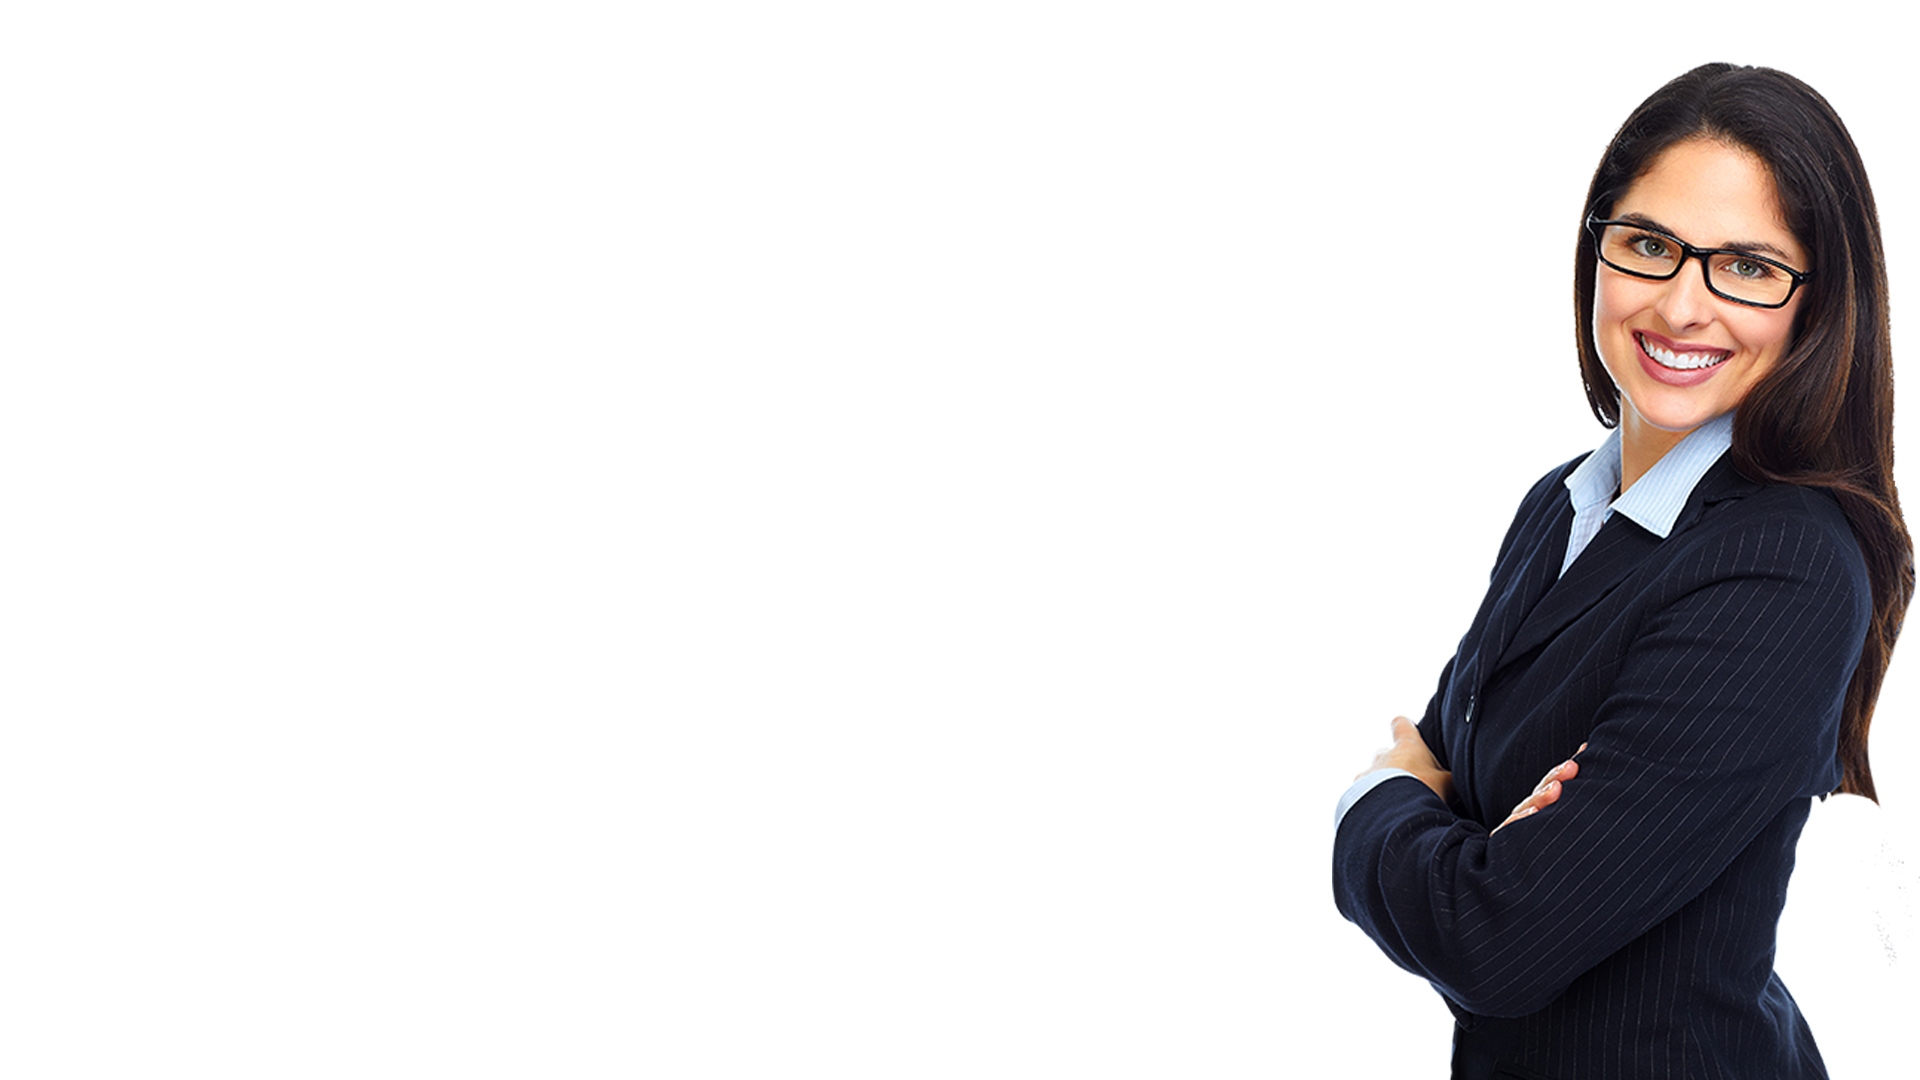
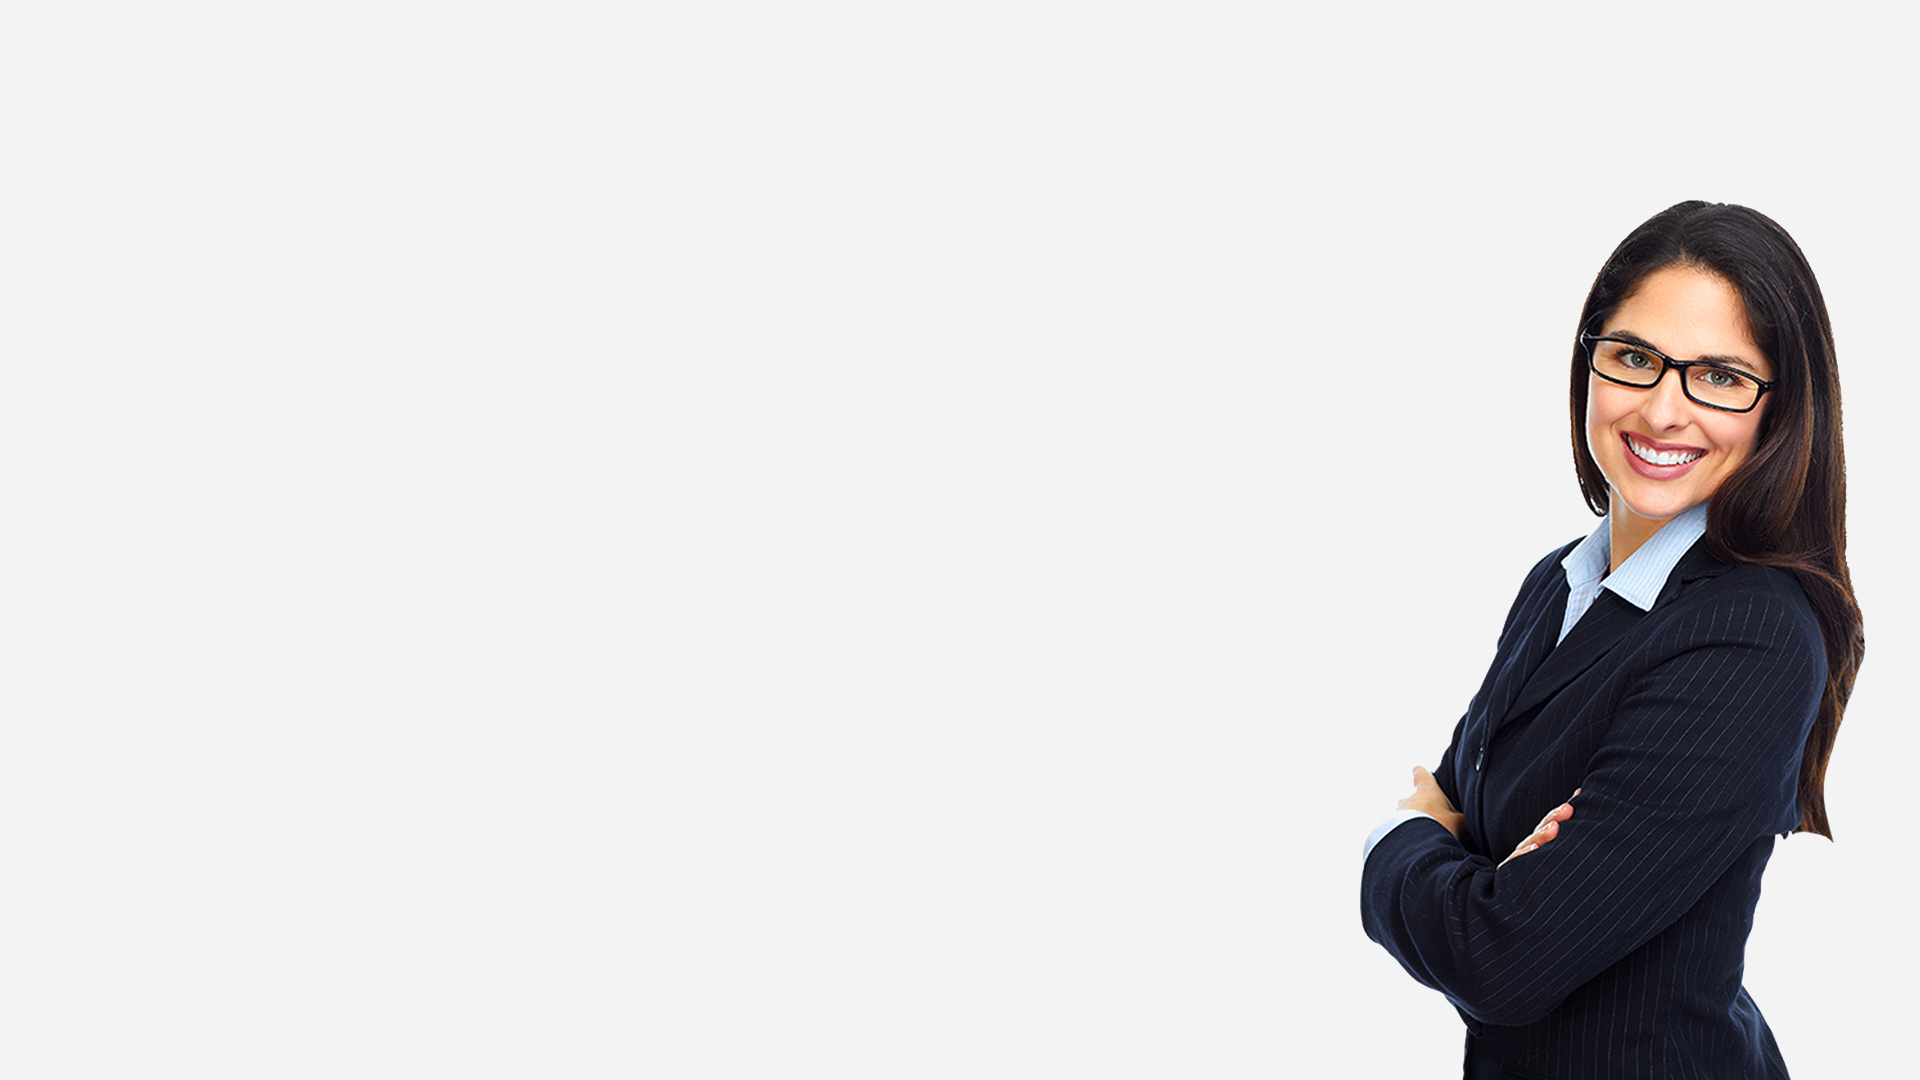
herosection image changes

Changed region(s): [[0.6875, 0.0611, 1.0, 1.0], [0.75, 0.9167, 0.7812, 1.0], [0.8125, 0.8861, 0.8438, 0.9167]]

diff --git a/index.html b/index.html
@@ -62,27 +62,26 @@ and open the template in the editor.
             </ol>
             <!-- Wrapper for slides -->
             <div class="carousel-inner" role="listbox">
-                <div class="item">
-                    <img src="images/1_1.jpg" data-color="lightblue" alt="First Image">
-                    <div class="carousel-caption">
-                        <h1> EXTENSIVE SALES
-                            AND MARKETING 
-                            EXPERIENCE</h1>
+                <div class="item caption-right">
+                    <img src="images/2_1.jpg" data-color="lightblue" alt="First Image">
+                    <div class="carousel-caption" id="caption1">
+                        <h1> EXTENSIVE SALES AND<br>
+                             MARKETING EXPERIENCE</h1>
                     </div>
                 </div>
                 <div class="item">
                     <img src="images/3.jpg" data-color="violet" alt="second Image">
                     <div class="carousel-caption">
-                        <h1>POWERFUL
-                            COOPERATION 
+                        <h1>POWERFUL<br>
+                            COOPERATION <br>
                             LASTING FOR YEARS</h1>
                     </div>
                 </div>
                 <div class="item">
-                    <img src="images/4.jpg" data-color="lightgreen" alt="third Image">
+                    <img src="images/7.jpg" data-color="lightgreen" alt="third Image">
                     <div class="carousel-caption">
-                        <h1>GET TO KNOW
-                            HOW TO INCREASE 
+                        <h1><span>GET TO KNOW</span><br>
+                            HOW TO INCREASE<br> 
                             YOUR SALES WITH US</h1>
                     </div>
                 </div>
@@ -144,7 +143,7 @@ and open the template in the editor.
             <div class="row">
                 <div class="col-lg-6 wow slideInLeft">
                     <h1>WELCOME TO OUR SITE</h1>
-                    <span>WE ARE ONE OF THE LARGEST PROVIDERS OF THE LEADING INVESTMENT STRATEGIES.</span>
+                    <span>WE ARE ONE OF THE LARGEST PROVIDERS OF THE LEADING MARKETING STRATEGIES.</span>
                     <p>
                         Mes cuml dia sed in lacus ut eniascet etor ingerto aliiqt es sitet amet dolo eismod ictorut ligulate ameti dapi licdu nt mtsent lusto dolor ltisim comme. Mes cuml dia sed inertio lacus ut eniascet ingerto aliiqt sit eism odictor. Ut ligulate ameti dapibus ticdu nt mtsent dolorltiissim.Mes cuml dia sed in lacus ut eniaes cuml dia sed in lacus ut eniascet etor ingerto
                     </p>

diff --git a/css/stylesheet.css b/css/stylesheet.css
@@ -161,13 +161,22 @@ h1,h2,h3,h4,h5,h6{
 }
 
 .carousel-caption{
-    top: 50%;
+    top: 55%;
+    left: 10%;
+    right: 10%;
     transform: translateY(-50%)
 }
 .carousel-caption h1{
-    font-size: 90px;
+    font-size: 50px;
     text-shadow: none;
-    font-weight: 700;
+    text-align: left;
+}
+#caption1 h1{
+    position: absolute;
+    right: 0;
+}
+.carousel-caption h1 span{
+    color: #fff;
 }
 
 section{
